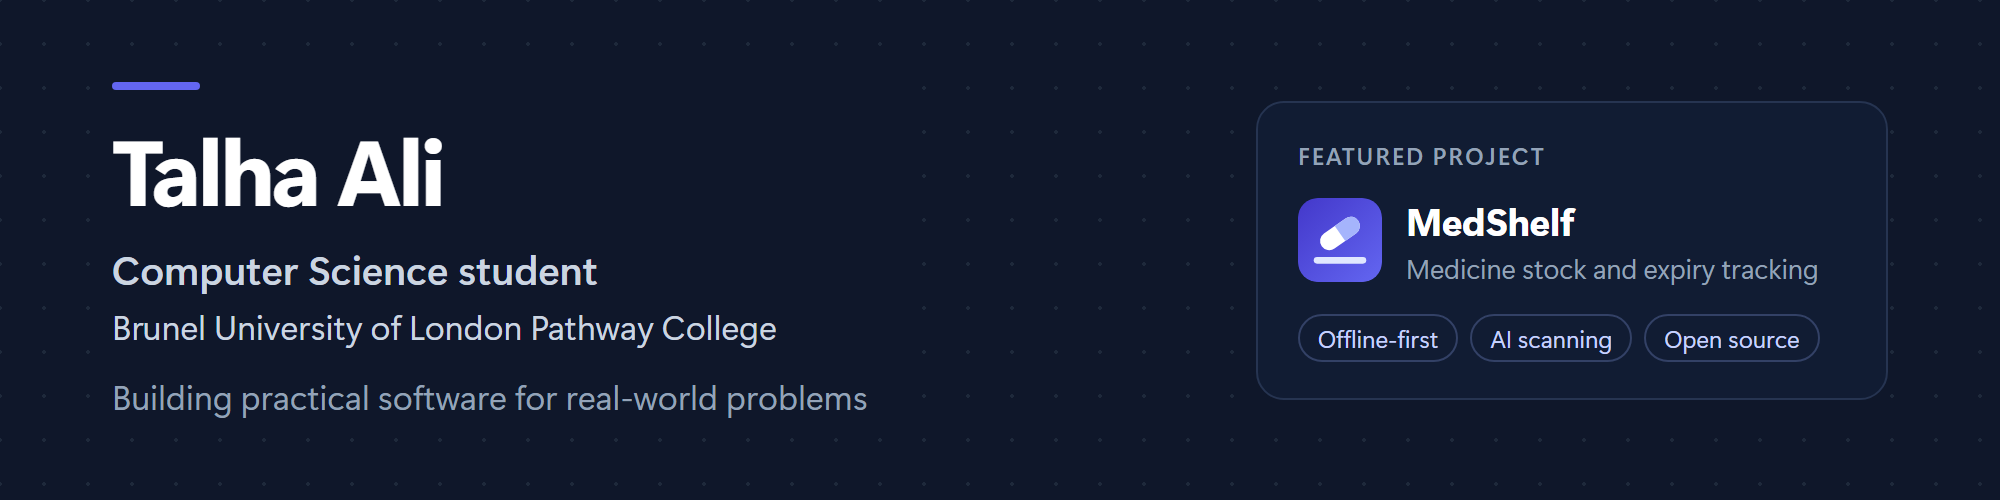
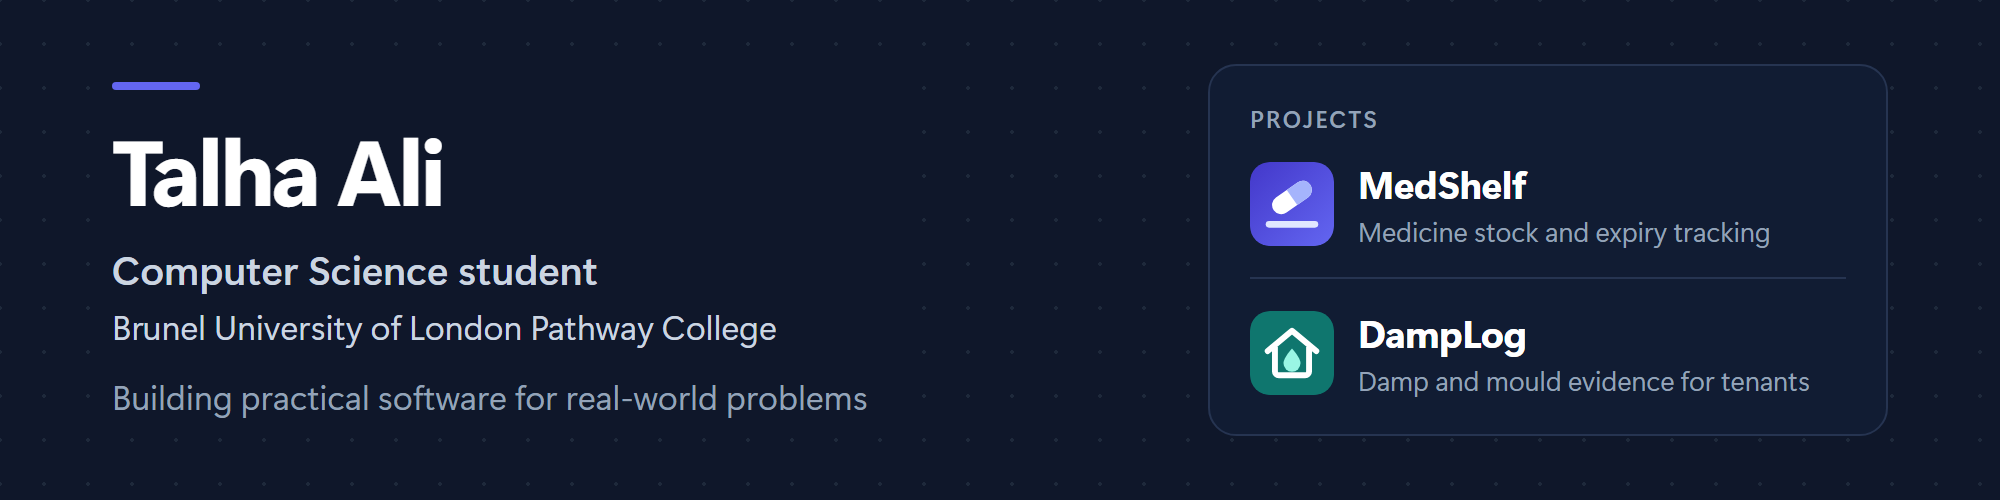
Feature DampLog next to MedShelf

diff --git a/README.md b/README.md
@@ -2,11 +2,11 @@
 
 ## About me
 
-I'm a Computer Science student at Brunel University of London Pathway College. I build software that solves real operational problems, with a focus on tools that small organisations can run without an IT department: they work in the browser, keep working offline and keep data on the device. Where AI helps, I use it with a person checking the result before anything is saved.
+I'm a Computer Science student at Brunel University of London Pathway College. I build software that solves real problems, with a focus on tools that people and small organisations can run without an IT department: they work in the browser, keep working offline and keep data on the device. Where AI helps, I use it with a person checking the result before anything is saved.
 
 I'm open to software engineering internships and placements.
 
-## Featured project
+## Projects
 
 <a href="https://talhaali-tech-engineer.github.io/MedShelf/docs/medshelf-demo.mp4"><img src="assets/medshelf.jpg" alt="MedShelf: stop losing money to expired medicine. Watch the demo." width="100%"></a>
 
@@ -20,6 +20,21 @@ Offline-first medicine stock and expiry control for small pharmacies and clinic 
 - No build step and no dependencies; tested with GitHub Actions and deployed on GitHub Pages
 
 [**Live app**](https://talhaali-tech-engineer.github.io/MedShelf/) &nbsp;·&nbsp; [**Demo video (1:53)**](https://talhaali-tech-engineer.github.io/MedShelf/docs/medshelf-demo.mp4) &nbsp;·&nbsp; [Source code](https://github.com/talhaali-tech-engineer/MedShelf)
+
+<br>
+
+<a href="https://talhaali-tech-engineer.github.io/DampLog/"><img src="assets/damplog.jpg" alt="DampLog overview: the landlord has missed the deadline to investigate black mould in the bedroom" width="100%"></a>
+
+### [DampLog](https://github.com/talhaali-tech-engineer/DampLog)
+
+An evidence log for damp, mould and repairs in rented homes in England, with Awaab's Law deadline tracking.
+
+- Dated photos, notes, calls and visits in one timeline for each problem
+- Works out every deadline the landlord must meet in working days, bank holidays included, and shows when they are late
+- Builds letters (report, chase, formal complaint) and a printable evidence report from the record
+- Optional AI describes photos and tightens letters; every change is shown, and code checks that no date, reference or name was lost or invented
+
+[**Live app**](https://talhaali-tech-engineer.github.io/DampLog/) &nbsp;·&nbsp; [Source code](https://github.com/talhaali-tech-engineer/DampLog)
 
 ## Skills
 
